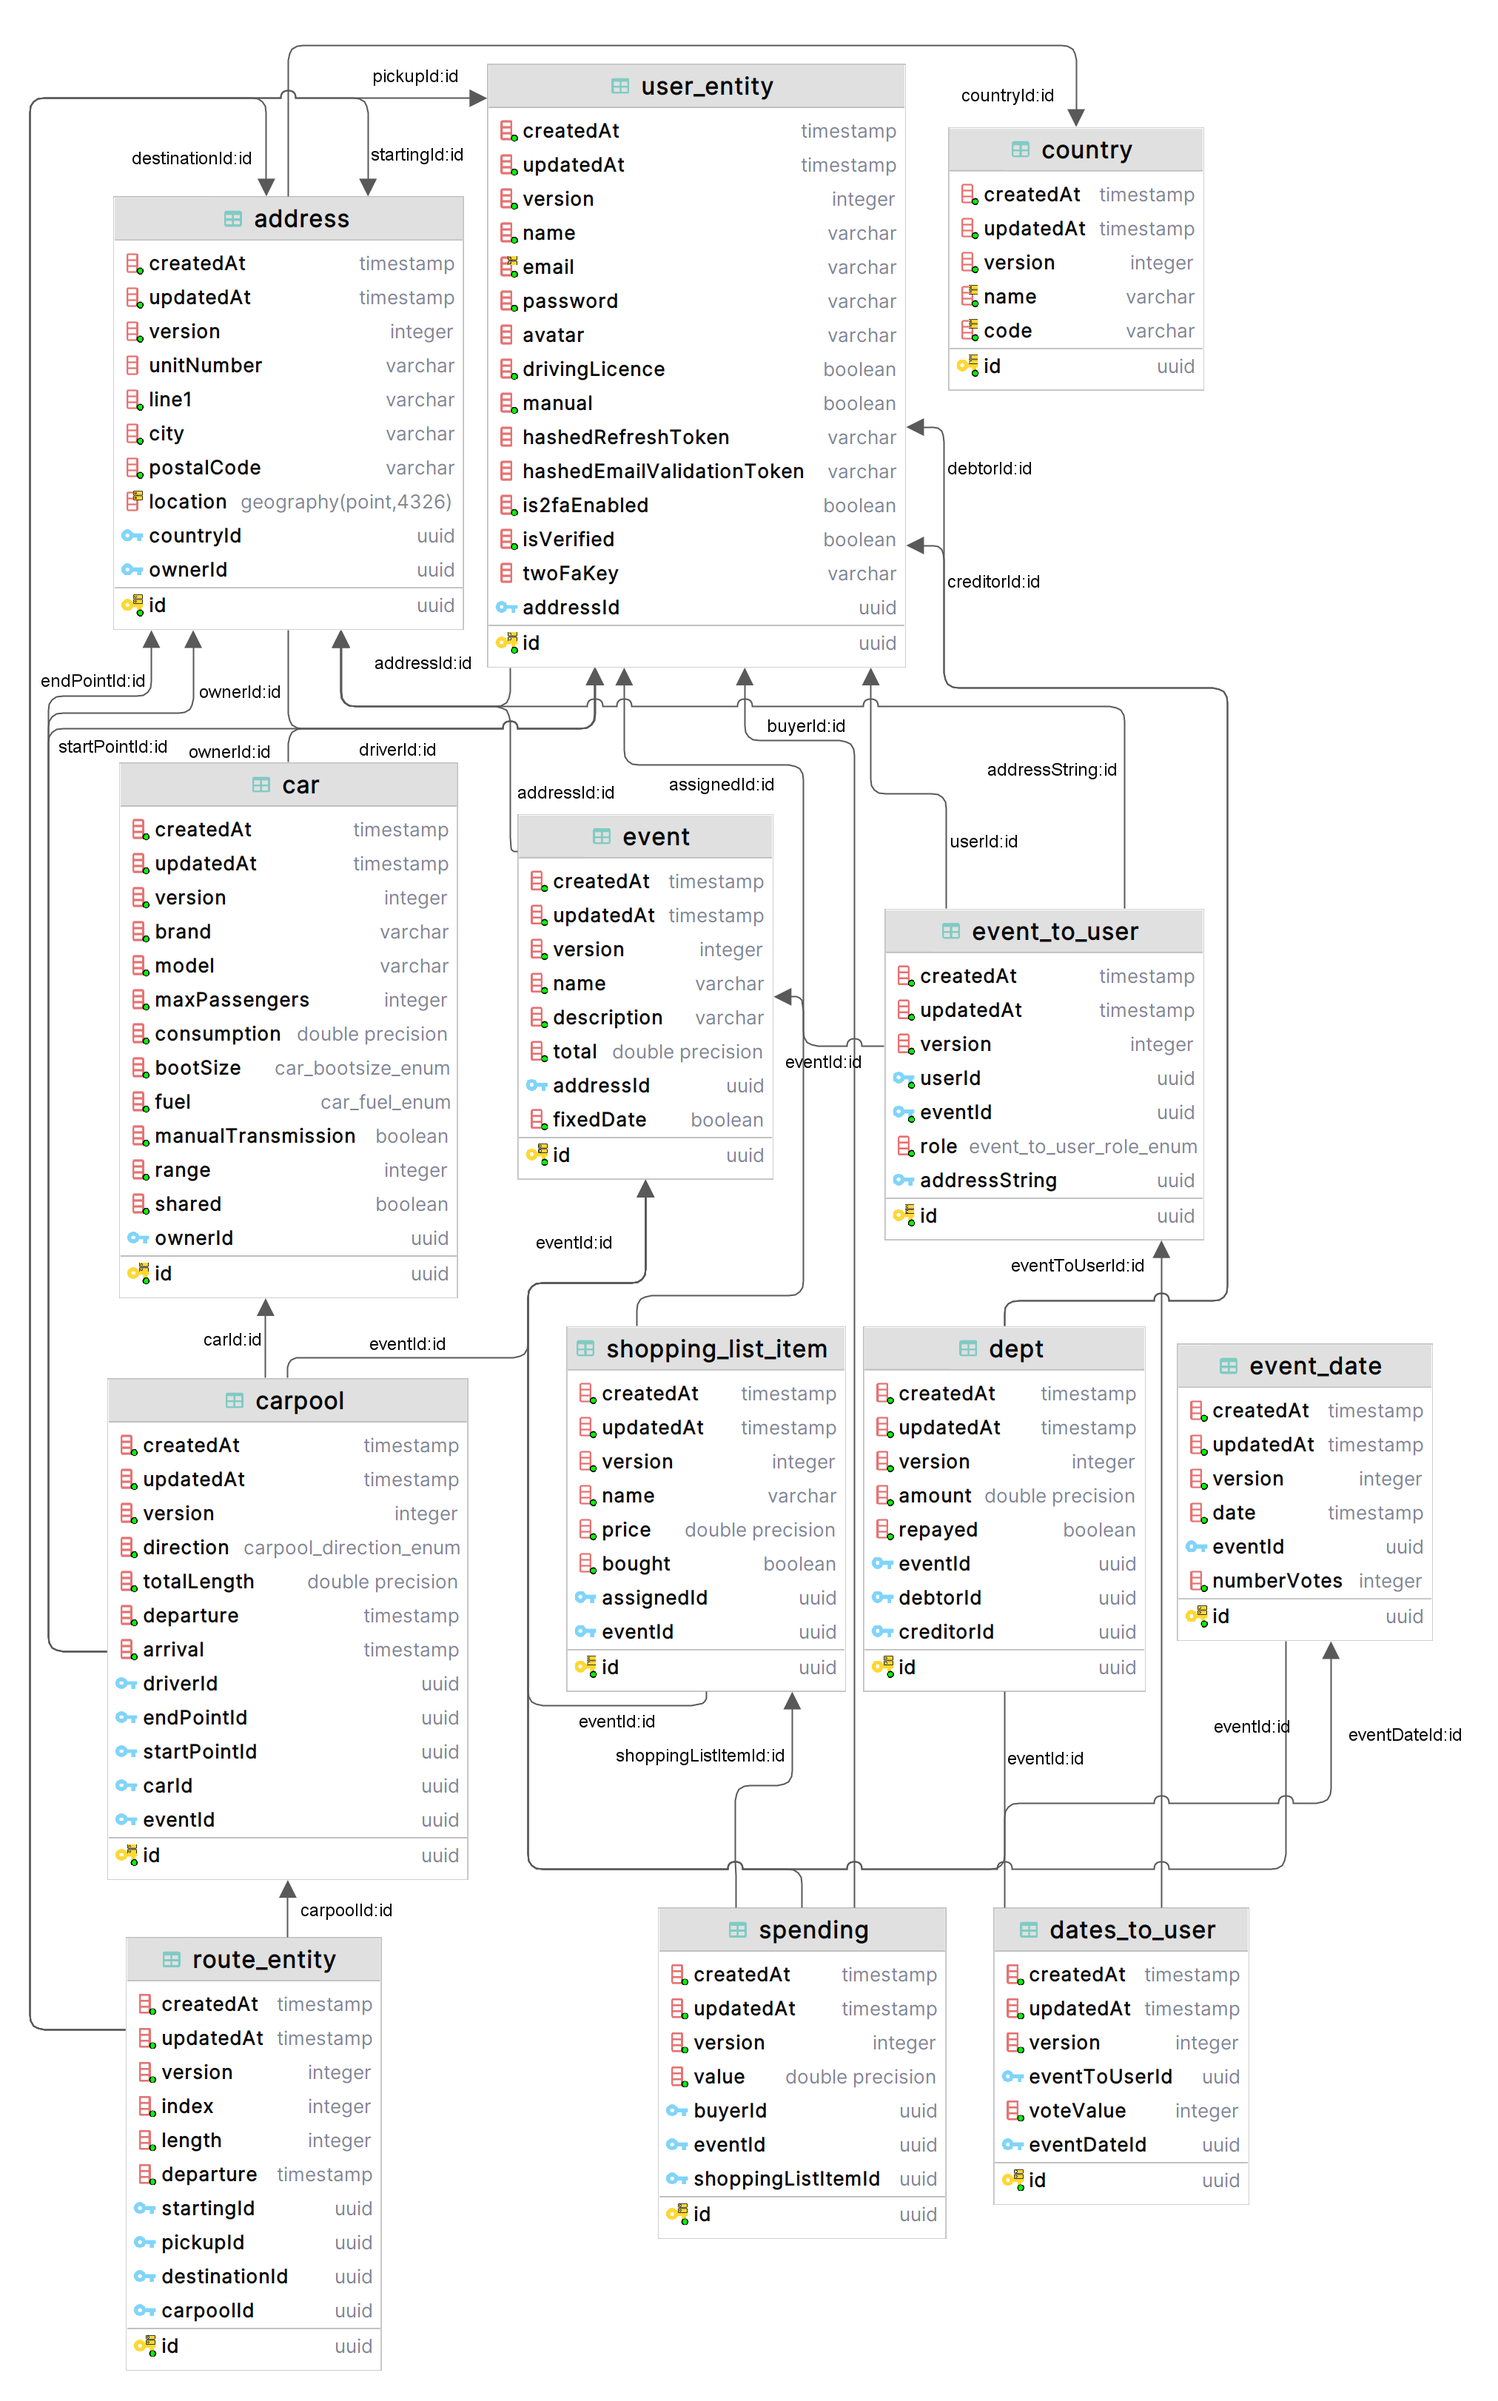
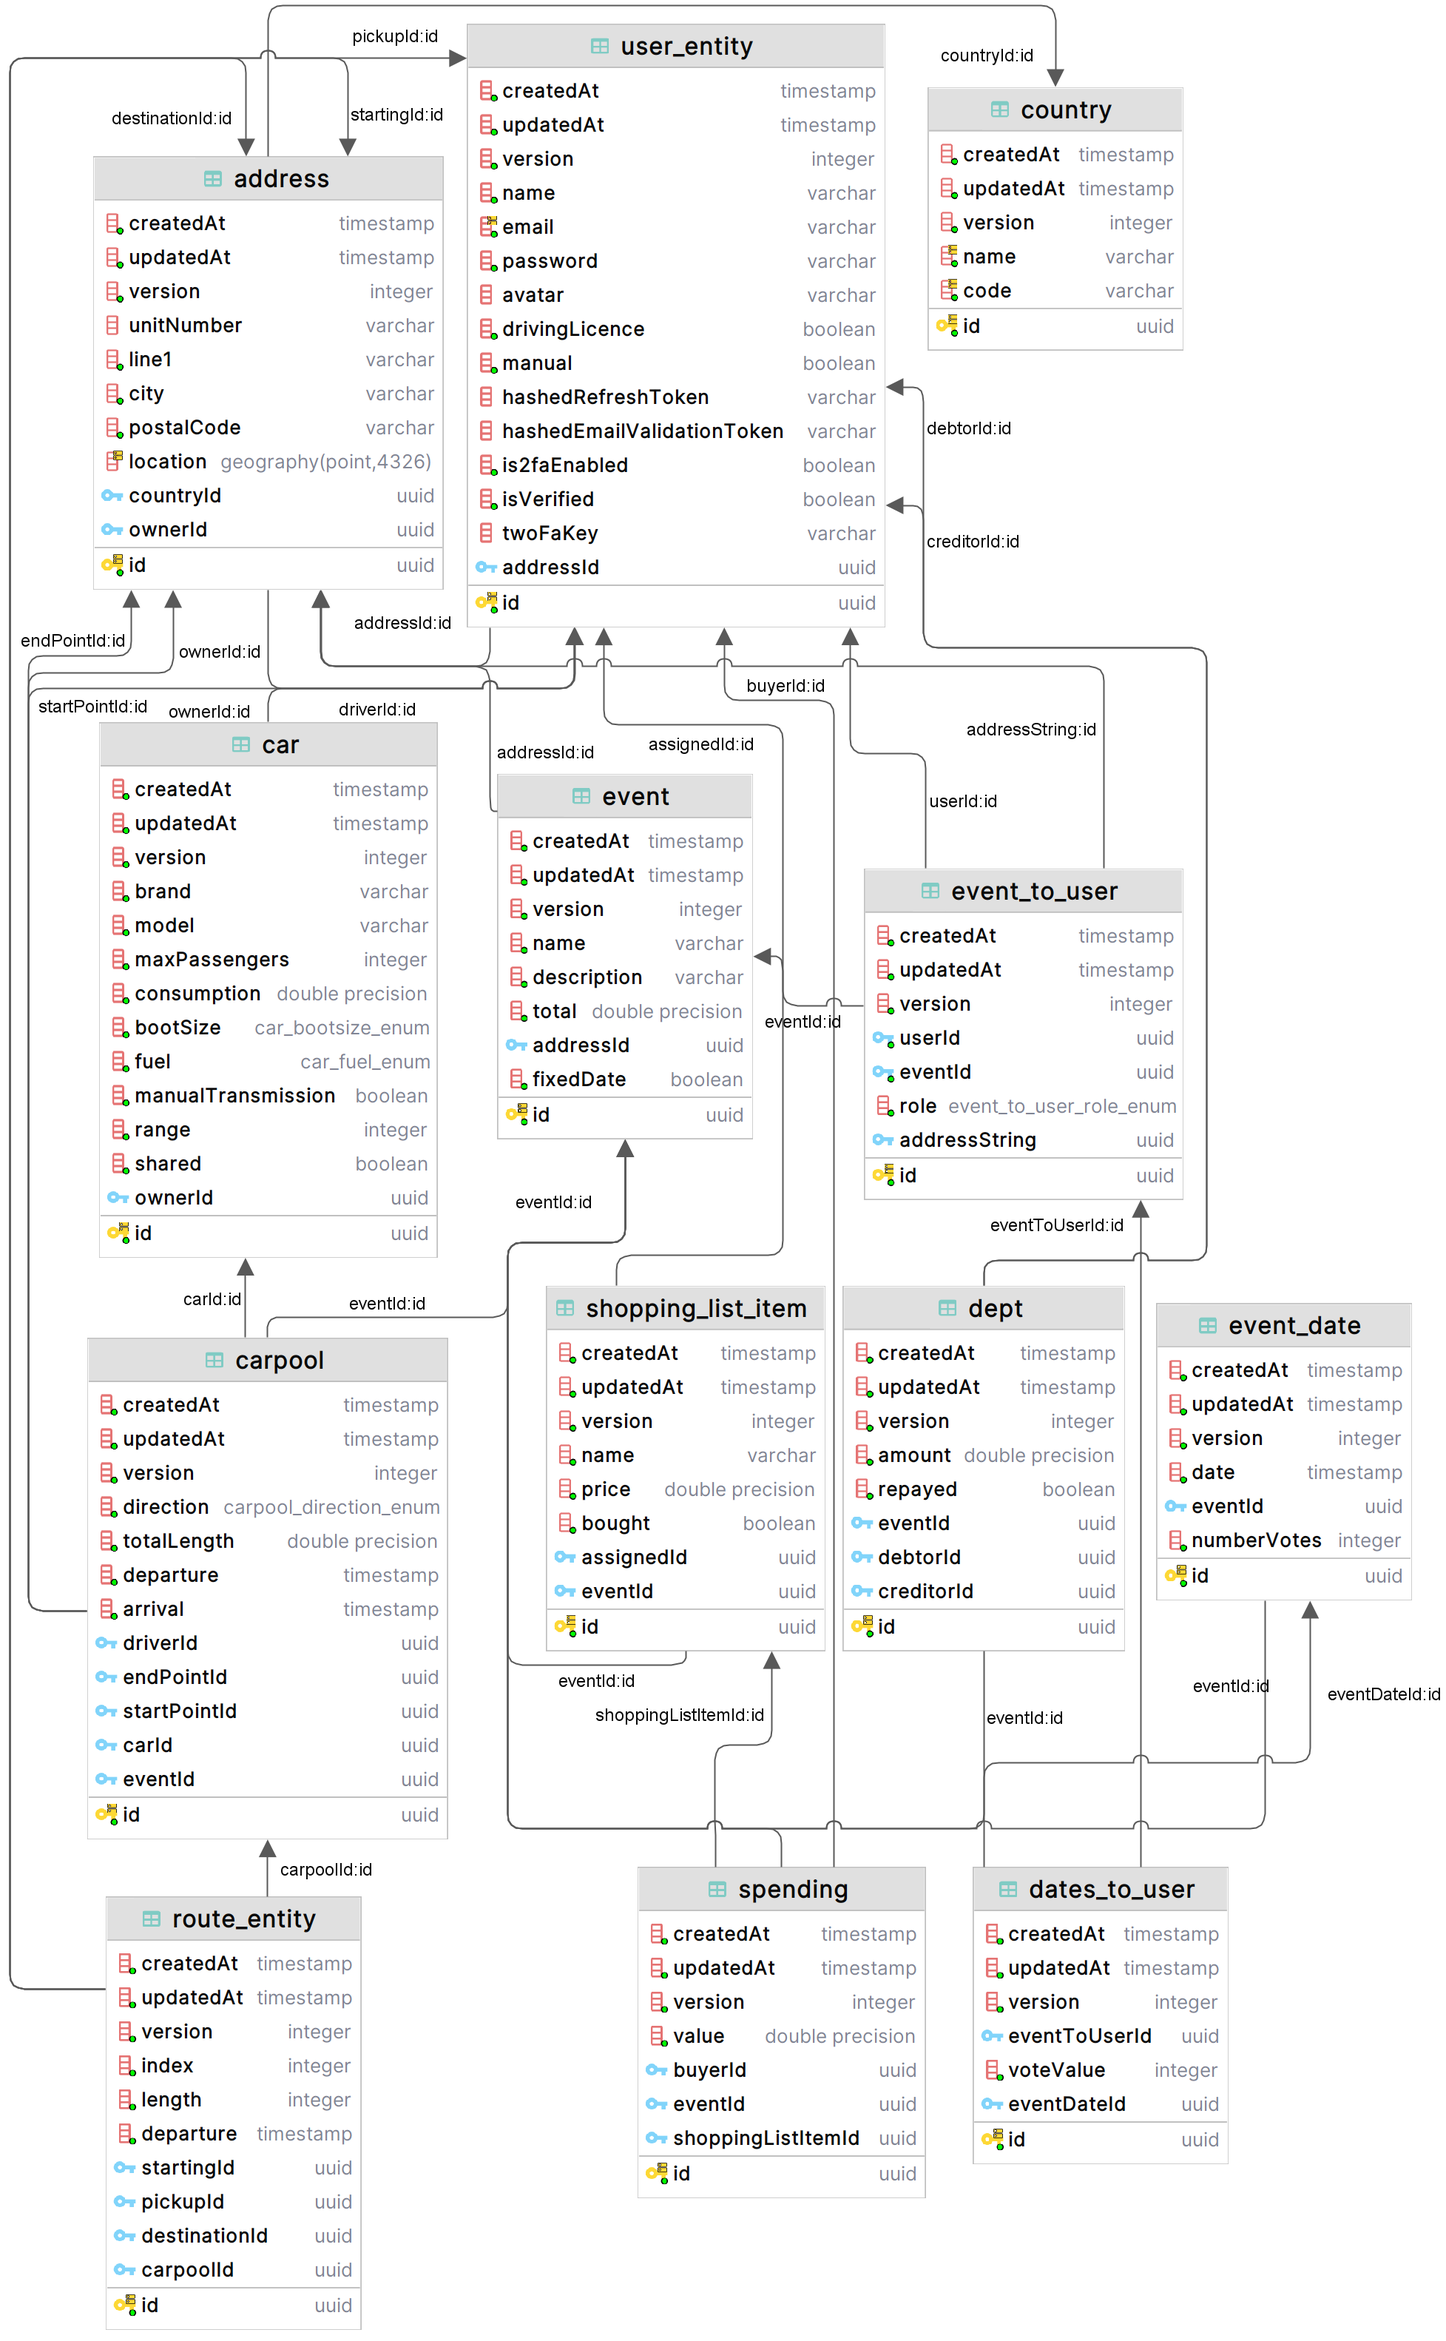
doc: adding Database section

Changed region(s): [[0.0, 0.0, 0.9985, 0.9292], [0.0624, 0.7743, 0.2808, 0.9912], [0.0, 0.6814, 0.0312, 0.8363]]

diff --git a/docs/src/base de donnees.tex b/docs/src/base de donnees.tex
@@ -1,24 +1,61 @@
 \subsection{Introduction}\label{subsec:introduction_base_de_donnee}
-Dans le cadre de mon application Clever Party Thrower, une base de données est utilisée pour gérer les différentes données générées par les utilisateurs et nécessaires au bon fonctionnement de l'application.
-Dans cette section, je vais détailler les différents aspects de la base de données et comment ils ont été mis en œuvre dans le projet.
+Dans le contexte de mon application \("\)Clever Party Thrower\("\), une base de données est nécessaire pour gérer diverses informations générées par les utilisateurs,
+ainsi que pour stocker d'autres données essentielles au bon fonctionnement de l'application.
+Cette section fournit un aperçu détaillé de la conception, du choix, des opérations et de la structure de la base de données.
 
 \subsection{Choix de la base de données}\label{subsec:choix-de-la-base-de-donnee}
-Le choix du système de base de données est crucial car il détermine une grande partie du fonctionnement et des performances de l'application.
-Comme déjà discuté dans l'analyse, j'ai choisi d'utiliser une base de données de type SQL et plus précisément PostgreSQL. L'utilisation de PostgreSQL me permet d'assurer la haute disponibilité de la base de données, si nécessaire, grâce à ses fonctionnalités de réplication des données.
+Le choix du système de base de données est un aspect crucial de tout projet, car il influence directement les performances et la fonctionnalité de l'application.
+Comme je l'ai précisé dans la section d'analyse, j'ai choisi un système de base de données de type SQL, plus précisément PostgreSQL, pour ce projet.
+La haute disponibilité offerte par PostgreSQL, grâce à ses fonctionnalités avancées de réplication de données, a été l'une des principales motivations de ce choix.
 
-Mais c'est surtout l'extensibilité de PostgreSQL qui était intéressante pour ce projet.
-En effet, le système d'addons de PostgreSQL permet d'ajouter des fonctionnalités à la base de données assez simplement.
-L'addon qui m'intéressait le plus dans mon cas est PostGIS car il permet de stocker et de manipuler des données de type point géographique.
-Grâce à PostGIS, ma base de données est capable de calculer directement la distance entre deux points géographiques.
+De plus, PostgreSQL offre une grande extensibilité.
+Son système d'extensions permet d'ajouter facilement des fonctionnalités à la base de données.
+Par exemple, l'extension PostGIS, qui facilite le stockage et la manipulation des données géographiques, a été particulièrement utile pour mon application,
+en particulier pour la fonction de covoiturage qui nécessite le calcul de la distance entre deux points géographiques.
 
-De plus, l'aspect open-source de PostgreSQL et sa réputation en font le candidat idéal pour mon projet.
-De plus, les performances de PostgreSQL sont très bonnes, ce qui est essentiel pour assurer la fluidité de l'expérience utilisateur.
+En outre, le caractère open source de PostgreSQL, sa réputation solide et ses performances de haut niveau en font un choix idéal pour mon projet.
+Sa compatibilité avec de nombreux langages de programmation et ORMs, dont TypeOrm que j'ai utilisé pour le développement de l'application, a consolidé ce choix.
 
-Enfin, la compatibilité de PostgreSQL avec de nombreux langages de programmation et ORMs,
-dont TypeOrm que j'ai utilisé pour le développement de l'application, a également été un facteur déterminant dans mon choix.
+\subsection{Opérations sur la base de données}\label{subsec:operation-sur-la-base-de-donnees}
+Les opérations sur la base de données sont principalement de nature CRUD (Create, Read, Update, Delete).
+Cependant, avec l'introduction du système de covoiturage, des opérations plus complexes sont devenues nécessaires.
+Par exemple, le calcul des distances entre différents points géographiques est une opération essentielle pour la coordination du covoiturage.
 
-\subsection{Structure de donnees}\label{subsec:structure-de-donnees}
-voici la structure de la base de donnee.
+\subsection{Structure de données}\label{subsec:structure-de-donnees}
+La structure de la base de données est illustrée dans la figure ci-dessous.
+Cette structure a été conçue pour garantir une exécution efficace des opérations de la base de données, tout en assurant la cohérence et l'intégrité des données.
+Elle comporte plusieurs tables, dont chaque instance contient des informations pertinentes et est liée à d'autres tables pour créer des relations significatives entre les différentes données.
+Voici une brève description ce chaque table de la basse de donnees
+\begin{itemize}
+    \item address : Contient des informations sur les adresses.
+    Chaque instance d'adresse est liée à une instance de \("\) country \("\) (via \("\) countryId \("\)) et à une instance de \("\) user\_entity\("\) (via \("\)ownerId\("\)).
+    \item car : Contient des informations sur les voitures.
+    Chaque instance de voiture est liée à une instance de \("\)user\_entity\("\) (via \("\)ownerId\("\)).
+    \item carpool : Contient des informations sur le covoiturage.
+    \item Chaque instance de covoiturage est liée à une instance de \("\)address\("\) (via \("\)startPointId\("\) et \("\)endPointId\("\)), une instance de \("\)car\("\) (via \("\)carId\("\)),
+    une instance de \("\)event\("\) (via \("\)eventId\("\)), et une instance de \("\)user\_entity\("\) (via \("\)driverId\("\)).
+    \item country : Contient des informations sur les pays.
+    Il est lié à \("\) address\("\) (via \("\)id\("\)).
+    \item  dates\_t\_user : Contient des informations sur les dates liées aux utilisateurs.
+    Chaque instance est liée à une instance de \("\)event\_date\("\) (via \("\) eventDateId\("\)) et à une instance de \("\)event\_to\_user\("\) (via \("\) eventToUserId\("\)).
+    \item dept : Contient des informations sur les dettes.
+    Chaque instance est liée à une instance de \("\)event\("\) (via \("\) eventId\("\)), et à deux instances de \("\) user\_entity \("\) (via \("\) creditorId\("\) et \("\)debtorId\("\)).
+    \item event : Contient des informations sur les événements.
+    Chaque instance est liée à une instance de \("\)address\("\) (via \("\)addressId\("\)) .
+    \item event_date : Contient des informations sur les dates d'événement.
+    Chaque instance est liée à une instance de \("\)event\("\) (via \("\)eventId\("\)).
+    \item event_to_user : Contient des informations sur la relation entre les événements et les utilisateurs.
+    Chaque instance est liée à une instance de \("\)address\("\) (via \("\)addressString\("\)), une instance de \("\)event\("\) (via \("\)eventId\("\)), et une instance de \("\)user\_entity\("\) (via \("\)userId\("\)).
+    \item route_entity : Contient des informations sur les itinéraires.
+    Chaque instance est liée à deux instances de \("\)address\("\) (via \("\)startingId\("\) et \("\)destinationId\("\)), une instance de \("\)carpool\("\) (via \("\)carpoolId\("\)), et une instance de \("\)user\_entity\("\) (via \("\)pickupId\("\)) .
+    \item shopping_list_item : Contient des informations sur les articles de la liste de courses.
+    Chaque instance est liée à une instance de \("\)event\("\) (via \("\) eventId\("\)) et à une instance de \("\)user\_entity\("\) (via \("\)assignedId\("\)).
+    \item spending : Contient des informations sur les dépenses.
+    Chaque instance est liée à une instance de \("\)event\("\) (via \("\)eventId\("\)), une instance de \("\)shopping\_list\_item\("\) (via \("\)shoppingListItemId\("\)), et une instance de \("\)user\_entity\("\) (via \("\)buyerId\("\)).
+    \item user_entity : Contient des informations sur les utilisateurs.
+    Chaque instance est liée à une instance de \("\)address\("\) (via \("\)addressId\("\)).
+\end{itemize}
+
 \begin{figure}[h!]
     \includegraphics[width=\linewidth]{./images/dbShema}\caption{Architecture de la base de donnée}\label{fig:dbSchema2}
     \centering
